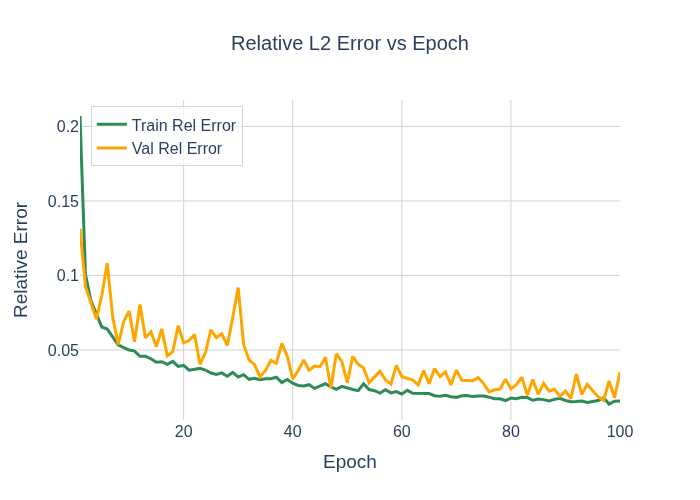
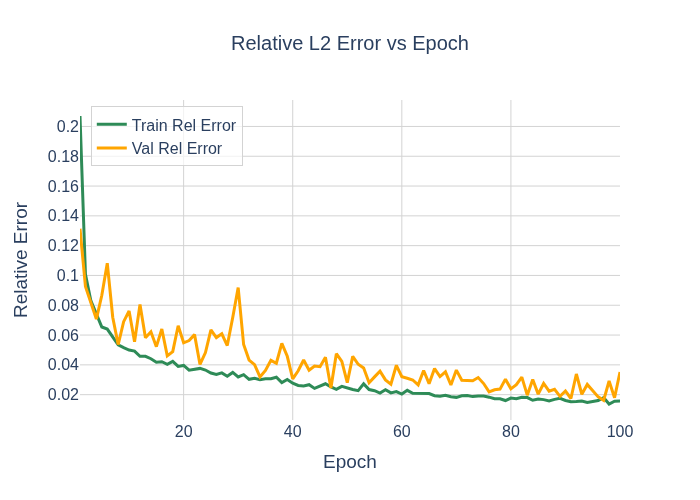
plot corection

diff --git a/training_dir/metrics_plot.py b/training_dir/metrics_plot.py
@@ -5,6 +5,7 @@ avg_train_relative_error, avg_val_relative_error
 
 Produces and saves plots to the same folder by default.
 """
+
 from __future__ import annotations
 
 import argparse
@@ -17,107 +18,192 @@ import plotly.graph_objects as go
 
 
 def read_metrics(csv_path: str) -> Dict[str, List[float]]:
-	metrics: Dict[str, List[float]] = {}
-	if not os.path.exists(csv_path):
-		raise FileNotFoundError(f"metrics CSV not found: {csv_path}")
+    metrics: Dict[str, List[float]] = {}
+    if not os.path.exists(csv_path):
+        raise FileNotFoundError(f"metrics CSV not found: {csv_path}")
 
-	with open(csv_path, newline="") as f:
-		reader = csv.DictReader(f)
-		fieldnames = reader.fieldnames
-		for row in reader:
-			for k in fieldnames:
-				v = row.get(k, "")
-				if k is None:
-					continue
-				k = k.strip()
-				if k == "":
-					continue
-				metrics.setdefault(k, []).append(float(v) if v != "" else float("nan"))
+    with open(csv_path, newline="") as f:
+        reader = csv.DictReader(f)
+        fieldnames = reader.fieldnames
+        for row in reader:
+            for k in fieldnames:
+                v = row.get(k, "")
+                if k is None:
+                    continue
+                k = k.strip()
+                if k == "":
+                    continue
+                metrics.setdefault(k, []).append(float(v) if v != "" else float("nan"))
 
-	return metrics
-
-
-
-def plot_losses(epoch: List[float], train: List[float], val: List[float], outpath: str | None, show: bool = False):
-	fig = go.Figure()
-	fig.add_trace(go.Scatter(x=epoch, y=train, mode='lines', name='Train Loss',
-							 line=dict(color='royalblue', width=3),
-							 connectgaps=False))
-	fig.add_trace(go.Scatter(x=epoch, y=val, mode='lines', name='Val Loss',
-							 line=dict(color='firebrick', width=3),
-							 connectgaps=False))
-	fig.update_layout(
-		title=dict(text='Loss vs Epoch', font=dict(size=20), x=0.5),
-		xaxis=dict(title='Epoch', showgrid=True, gridcolor='lightgrey', zeroline=True),
-		yaxis=dict(title='Loss', showgrid=True, gridcolor='lightgrey', zeroline=True),
-		template='plotly_white',
-		legend=dict(x=0.02, y=0.98, bgcolor='rgba(255,255,255,0.7)', bordercolor='lightgrey', borderwidth=1),
-		font=dict(size=16)
-	)
-	if outpath:
-		fig.write_image(outpath)
-	if show:
-		fig.show()
+    return metrics
 
 
+def plot_losses(
+    epoch: List[float],
+    train: List[float],
+    val: List[float],
+    outpath: str | None,
+    show: bool = False,
+):
+    fig = go.Figure()
+    fig.add_trace(
+        go.Scatter(
+            x=epoch,
+            y=train,
+            mode="lines",
+            name="Train Loss",
+            line=dict(color="royalblue", width=3),
+            connectgaps=False,
+        )
+    )
+    fig.add_trace(
+        go.Scatter(
+            x=epoch,
+            y=val,
+            mode="lines",
+            name="Val Loss",
+            line=dict(color="firebrick", width=3),
+            connectgaps=False,
+        )
+    )
+    fig.update_layout(
+        title=dict(text="Loss vs Epoch", font=dict(size=20), x=0.5),
+        xaxis=dict(title="Epoch", showgrid=True, gridcolor="lightgrey", zeroline=True),
+        yaxis=dict(
+            title="Loss",
+            showgrid=True,
+            gridcolor="lightgrey",
+            zeroline=True,
+            dtick=0.02,
+        ),  # Updated tick interval
+        template="plotly_white",
+        legend=dict(
+            x=0.02,
+            y=0.98,
+            bgcolor="rgba(255,255,255,0.7)",
+            bordercolor="lightgrey",
+            borderwidth=1,
+        ),
+        font=dict(size=16),
+    )
+    if outpath:
+        fig.write_image(outpath)
+    if show:
+        fig.show()
 
-def plot_rel_error(epoch: List[float], train: List[float], val: List[float], outpath: str | None, show: bool = False):
-	fig = go.Figure()
-	fig.add_trace(go.Scatter(x=epoch, y=train, mode='lines', name='Train Rel Error',
-							 line=dict(color='seagreen', width=3),
-							 connectgaps=False))
-	fig.add_trace(go.Scatter(x=epoch, y=val, mode='lines', name='Val Rel Error',
-							 line=dict(color='orange', width=3),
-							 connectgaps=False))
-	fig.update_layout(
-		title=dict(text='Relative L2 Error vs Epoch', font=dict(size=20), x=0.5),
-		xaxis=dict(title='Epoch', showgrid=True, gridcolor='lightgrey', zeroline=True),
-		yaxis=dict(title='Relative Error', showgrid=True, gridcolor='lightgrey', zeroline=True),
-		template='plotly_white',
-		legend=dict(x=0.02, y=0.98, bgcolor='rgba(255,255,255,0.7)', bordercolor='lightgrey', borderwidth=1),
-		font=dict(size=16)
-	)
-	if outpath:
-		fig.write_image(outpath)
-	if show:
-		fig.show()
+
+def plot_rel_error(
+    epoch: List[float],
+    train: List[float],
+    val: List[float],
+    outpath: str | None,
+    show: bool = False,
+):
+    fig = go.Figure()
+    fig.add_trace(
+        go.Scatter(
+            x=epoch,
+            y=train,
+            mode="lines",
+            name="Train Rel Error",
+            line=dict(color="seagreen", width=3),
+            connectgaps=False,
+        )
+    )
+    fig.add_trace(
+        go.Scatter(
+            x=epoch,
+            y=val,
+            mode="lines",
+            name="Val Rel Error",
+            line=dict(color="orange", width=3),
+            connectgaps=False,
+        )
+    )
+    fig.update_layout(
+        title=dict(text="Relative L2 Error vs Epoch", font=dict(size=20), x=0.5),
+        xaxis=dict(title="Epoch", showgrid=True, gridcolor="lightgrey", zeroline=True),
+        yaxis=dict(
+            title="Relative Error",
+            showgrid=True,
+            gridcolor="lightgrey",
+            zeroline=True,
+            dtick=0.02,
+        ),  # Updated tick interval
+        template="plotly_white",
+        legend=dict(
+            x=0.02,
+            y=0.98,
+            bgcolor="rgba(255,255,255,0.7)",
+            bordercolor="lightgrey",
+            borderwidth=1,
+        ),
+        font=dict(size=16),
+    )
+    if outpath:
+        fig.write_image(outpath)
+    if show:
+        fig.show()
 
 
 def main() -> None:
-	parser = argparse.ArgumentParser(description="Plot training metrics CSV.")
-	parser.add_argument("--csv", default="training_dir/metrics.csv", help="path to metrics CSV")
-	parser.add_argument("--outdir", default="training_dir", help="where to save plots")
-	parser.add_argument("--show", action="store_true", help="show plots interactively")
-	args = parser.parse_args()
+    parser = argparse.ArgumentParser(description="Plot training metrics CSV.")
+    parser.add_argument(
+        "--csv", default="training_dir/metrics.csv", help="path to metrics CSV"
+    )
+    parser.add_argument("--outdir", default="training_dir", help="where to save plots")
+    parser.add_argument("--show", action="store_true", help="show plots interactively")
+    args = parser.parse_args()
 
-	csv_path = args.csv
-	outdir = args.outdir
-	os.makedirs(outdir, exist_ok=True)
+    csv_path = args.csv
+    outdir = args.outdir
+    os.makedirs(outdir, exist_ok=True)
 
-	metrics = read_metrics(csv_path)
+    metrics = read_metrics(csv_path)
 
-	# prefer column names with/without spaces
-	epoch = metrics.get("epoch") or metrics.get("Epoch") or list(range(1, len(next(iter(metrics.values()))) + 1))
+    # prefer column names with/without spaces
+    epoch = (
+        metrics.get("epoch")
+        or metrics.get("Epoch")
+        or list(range(1, len(next(iter(metrics.values()))) + 1))
+    )
 
-	# Loss
-	train_loss = metrics.get("avg_train_loss") or metrics.get("train_loss") or []
-	val_loss = metrics.get("avg_val_loss") or metrics.get("val_loss") or []
+    # Loss
+    train_loss = metrics.get("avg_train_loss") or metrics.get("train_loss") or []
+    val_loss = metrics.get("avg_val_loss") or metrics.get("val_loss") or []
 
-	# Relative error
-	train_rel = metrics.get("avg_train_relative_error") or metrics.get("train_relative_error") or []
-	val_rel = metrics.get("avg_val_relative_error") or metrics.get("val_relative_error") or []
+    # Relative error
+    train_rel = (
+        metrics.get("avg_train_relative_error")
+        or metrics.get("train_relative_error")
+        or []
+    )
+    val_rel = (
+        metrics.get("avg_val_relative_error") or metrics.get("val_relative_error") or []
+    )
 
+    if train_loss and val_loss:
+        outpath = os.path.join(outdir, "metrics_loss.png")
+        plot_losses(
+            epoch,
+            train_loss,
+            val_loss,
+            outpath if not args.show else None,
+            show=args.show,
+        )
+        print(f"Saved loss plot to {outpath}")
 
-	if train_loss and val_loss:
-		outpath = os.path.join(outdir, "metrics_loss.png")
-		plot_losses(epoch, train_loss, val_loss, outpath if not args.show else None, show=args.show)
-		print(f"Saved loss plot to {outpath}")
-
-	if train_rel and val_rel:
-		outpath2 = os.path.join(outdir, "metrics_rel_error.png")
-		plot_rel_error(epoch, train_rel, val_rel, outpath2 if not args.show else None, show=args.show)
-		print(f"Saved relative-error plot to {outpath2}")
+    if train_rel and val_rel:
+        outpath2 = os.path.join(outdir, "metrics_rel_error.png")
+        plot_rel_error(
+            epoch,
+            train_rel,
+            val_rel,
+            outpath2 if not args.show else None,
+            show=args.show,
+        )
+        print(f"Saved relative-error plot to {outpath2}")
 
 
 if __name__ == "__main__":
-	main()
+    main()

diff --git a/model_dir/activation_filter.py b/model_dir/activation_filter.py
@@ -15,8 +15,8 @@ class ActivationFilter(nnx.Module):
         x = jax.image.resize(
             x,
             shape=(x.shape[0], 2 * self._in_size, 2 * self._in_size, x.shape[-1]),
-            method="bilinear",
-            antialias=False,
+            method="bicubic",
+            antialias=True,
         )
 
         #
@@ -25,8 +25,8 @@ class ActivationFilter(nnx.Module):
         x = jax.image.resize(
             x,
             shape=(x.shape[0], self._out_size, self._out_size, x.shape[-1]),
-            method="bilinear",
-            antialias=False,
+            method="bicubic",
+            antialias=True,
         )
 
         return x
